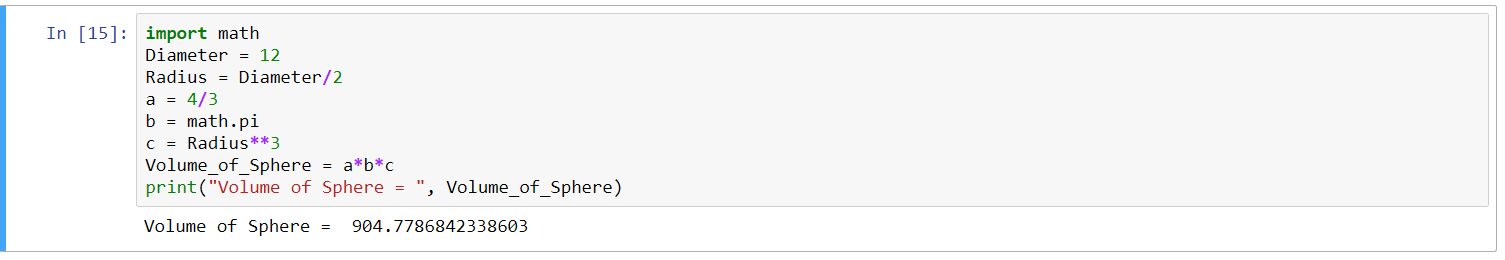
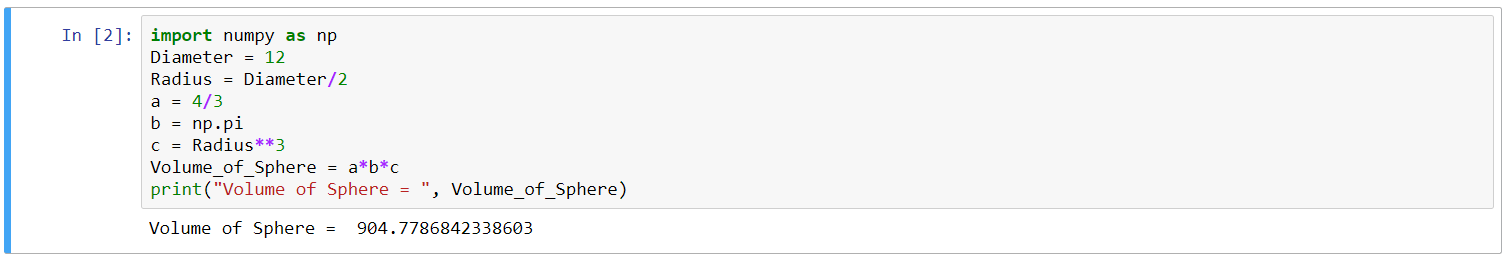
Add files via upload

diff --git a/Python Session 1 - Assignment 4.py b/Python Session 1 - Assignment 4.py
@@ -1,13 +1,13 @@
 
 # coding: utf-8
 
-# In[15]:
+# In[2]:
 
-import math
+import numpy as np
 Diameter = 12
 Radius = Diameter/2
 a = 4/3
-b = math.pi
+b = np.pi
 c = Radius**3
 Volume_of_Sphere = a*b*c
 print("Volume of Sphere = ", Volume_of_Sphere)
